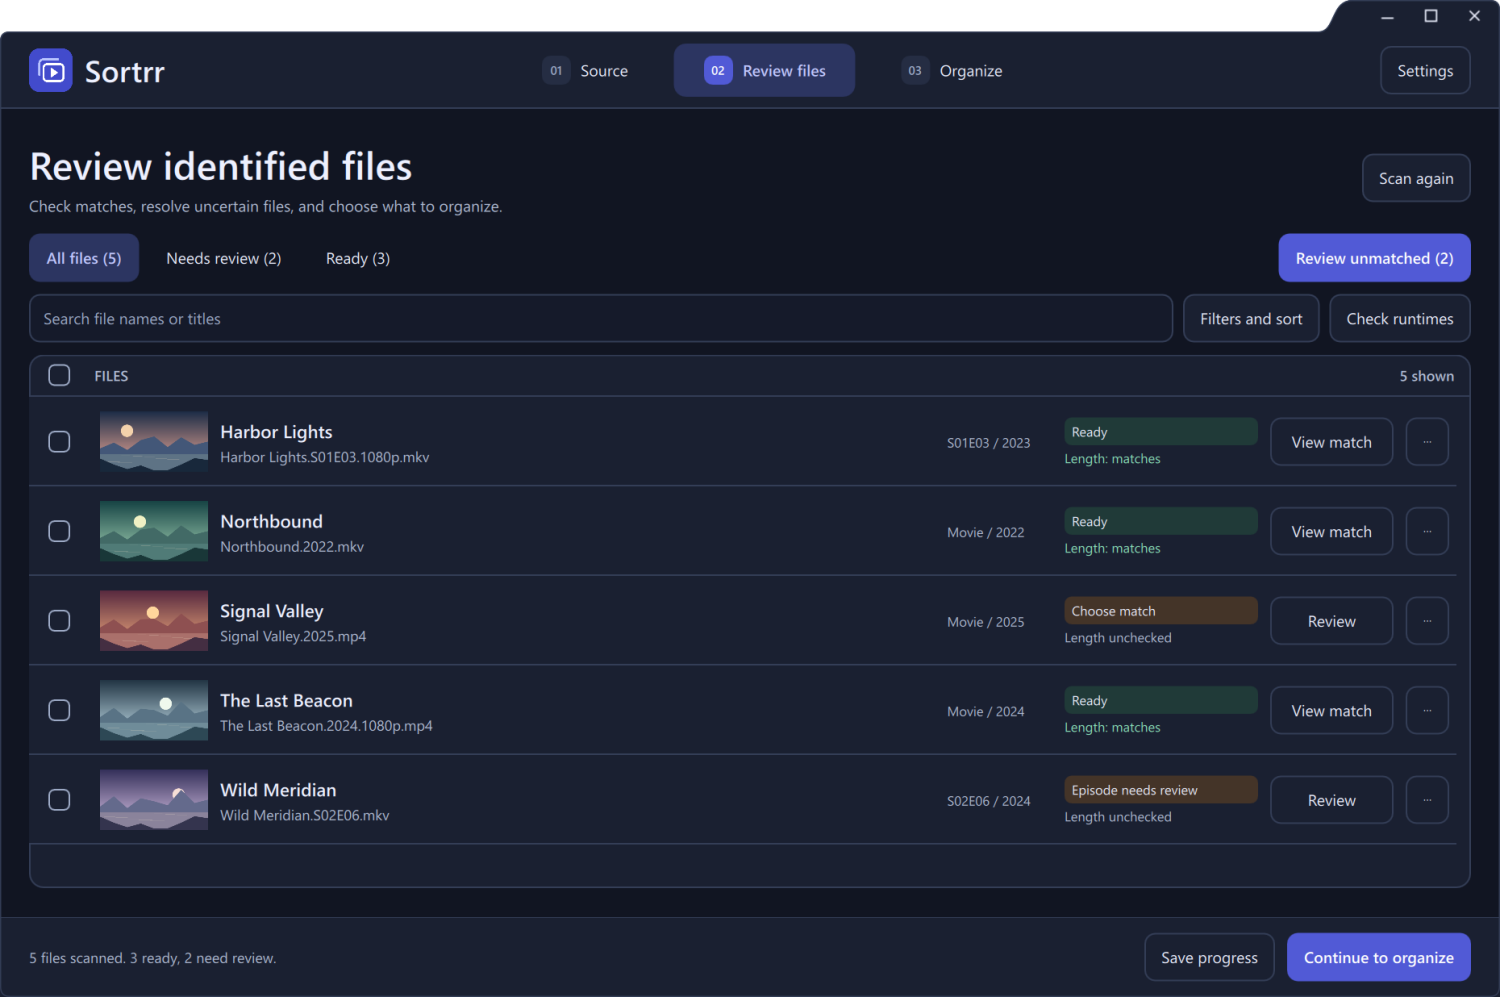
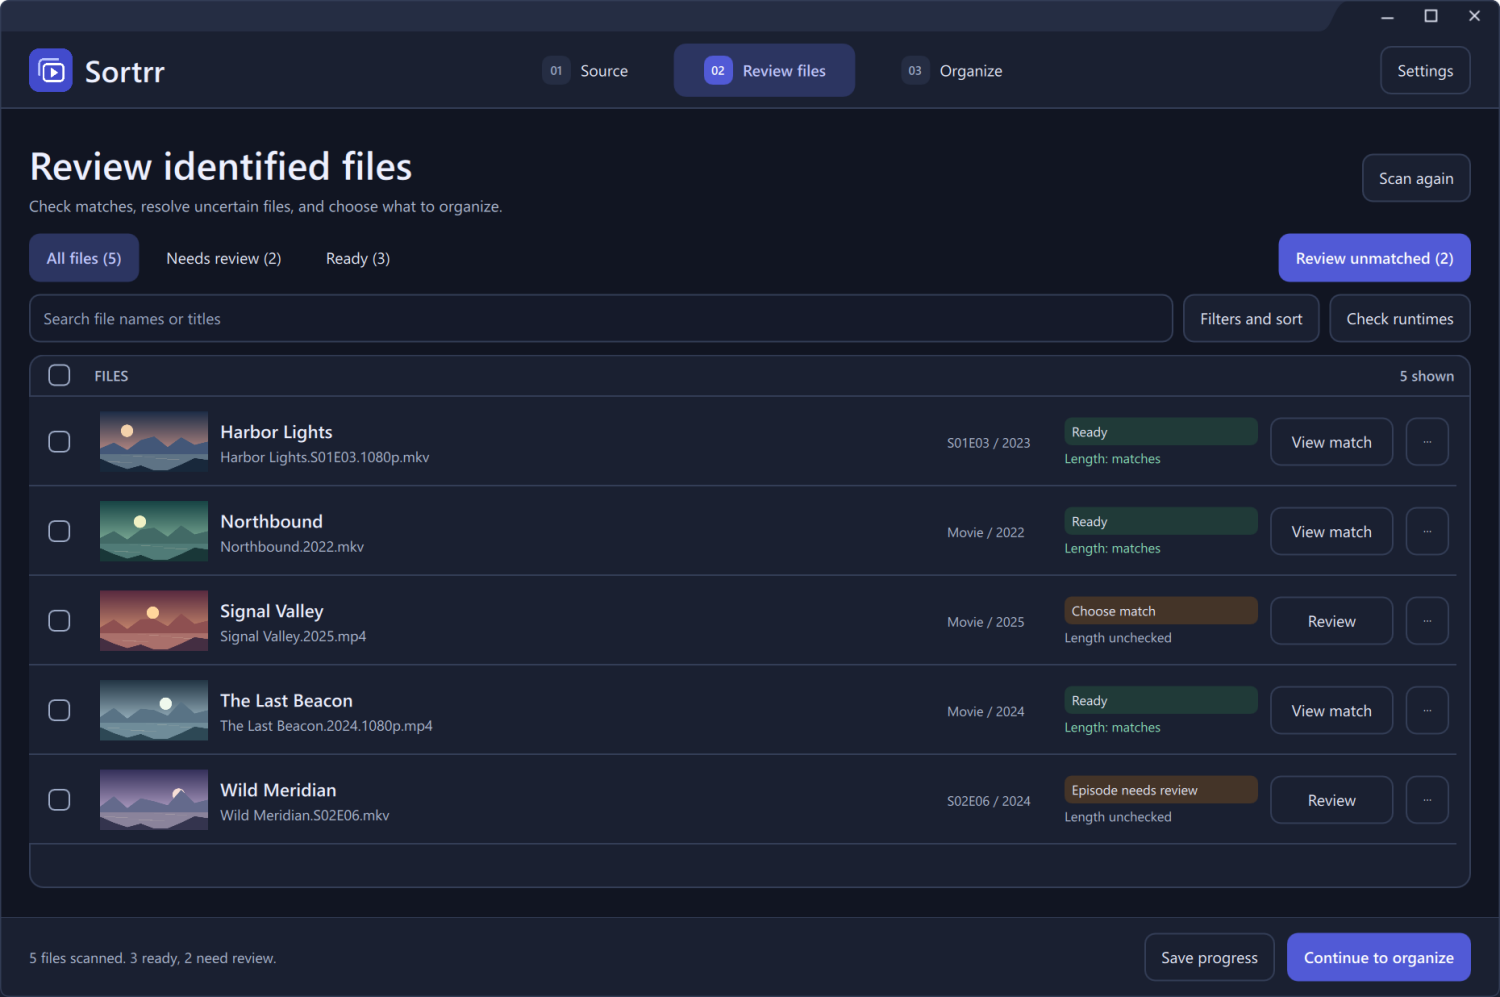
Add a browser-style title strip for window dragging

Changed region(s): [[0.0, 0.0, 0.8893, 0.0311]]

diff --git a/ui/WindowFrame.qml b/ui/WindowFrame.qml
@@ -17,8 +17,6 @@ Item {
     property real tabHeight: 26
     WindowShape {
         targetWindow: frame.targetWindow
-        tabWidth: frame.tabWidth
-        tabHeight: frame.tabHeight
     }
     Canvas {
         id: outline
@@ -28,21 +26,18 @@ Item {
         onHeightChanged: requestPaint()
         onPaint: {
             let ctx = getContext("2d")
-            let w = width - .5, h = height - .5, t = frame.tabHeight + .5
-            let x = width - frame.tabWidth
+            let w = width - .5, h = height - .5, r = 8
             ctx.clearRect(0, 0, width, height)
             ctx.beginPath()
-            ctx.moveTo(8, t)
-            ctx.lineTo(x - 18, t)
-            ctx.bezierCurveTo(x - 4, t, x - 8, .5, x + 10, .5)
-            ctx.lineTo(w - 8, .5)
-            ctx.quadraticCurveTo(w, .5, w, 8)
-            ctx.lineTo(w, h - 8)
-            ctx.quadraticCurveTo(w, h, w - 8, h)
-            ctx.lineTo(8, h)
-            ctx.quadraticCurveTo(.5, h, .5, h - 8)
-            ctx.lineTo(.5, t + 8)
-            ctx.quadraticCurveTo(.5, t, 8, t)
+            ctx.moveTo(r, .5)
+            ctx.lineTo(w - r, .5)
+            ctx.quadraticCurveTo(w, .5, w, r)
+            ctx.lineTo(w, h - r)
+            ctx.quadraticCurveTo(w, h, w - r, h)
+            ctx.lineTo(r, h)
+            ctx.quadraticCurveTo(.5, h, .5, h - r)
+            ctx.lineTo(.5, r)
+            ctx.quadraticCurveTo(.5, .5, r, .5)
             ctx.closePath()
             ctx.strokeStyle = Theme.line
             ctx.lineWidth = 1
@@ -54,13 +49,6 @@ Item {
         }
     }
     onTabWidthChanged: outline.requestPaint()
-    MouseArea {
-        x: frame.width - frame.tabWidth + 10
-        y: 0; width: frame.tabWidth - 20; height: frame.edgeWidth
-        enabled: frame.resizable
-        cursorShape: Qt.SizeVerCursor
-        onPressed: frame.targetWindow.startSystemResize(Qt.TopEdge)
-    }
     Repeater {
         model: [
             { edges: Qt.LeftEdge, cursor: Qt.SizeHorCursor },
@@ -78,15 +66,12 @@ Item {
             readonly property bool rightEdge: !!(modelData.edges & Qt.RightEdge)
             readonly property bool topEdge: !!(modelData.edges & Qt.TopEdge)
             readonly property bool bottomEdge: !!(modelData.edges & Qt.BottomEdge)
-            width: modelData.edges === Qt.TopEdge ? frame.width - frame.tabWidth - 24
-                : leftEdge || rightEdge ? (topEdge || bottomEdge ? frame.cornerWidth : frame.edgeWidth)
+            width: leftEdge || rightEdge ? (topEdge || bottomEdge ? frame.cornerWidth : frame.edgeWidth)
                 : frame.width - 2 * frame.cornerWidth
             height: topEdge || bottomEdge ? (leftEdge || rightEdge ? frame.cornerWidth : frame.edgeWidth)
-                : frame.height - 2 * frame.cornerWidth - (leftEdge ? frame.tabHeight : 0)
+                : frame.height - 2 * frame.cornerWidth
             x: leftEdge ? 0 : rightEdge ? frame.width - width : frame.cornerWidth
-            y: topEdge ? (rightEdge ? 0 : frame.tabHeight)
-                : bottomEdge ? frame.height - height
-                : frame.cornerWidth + (leftEdge ? frame.tabHeight : 0)
+            y: topEdge ? 0 : bottomEdge ? frame.height - height : frame.cornerWidth
             enabled: frame.resizable
             acceptedButtons: Qt.LeftButton
             cursorShape: modelData.cursor

diff --git a/ui/TitleBar.qml b/ui/TitleBar.qml
@@ -15,6 +15,20 @@ Item {
     readonly property int tabWidth: windowButtons.width + 26
     implicitHeight: 90
 
+    // A continuous, quiet backdrop makes the caption tab feel anchored
+    // and provides a generous drag target without repeating the app name.
+    Rectangle {
+        anchors.fill: parent
+        color: Theme.raised
+        radius: 8
+    }
+    Rectangle {
+        anchors.left: parent.left; anchors.right: parent.right
+        anchors.top: parent.top; anchors.topMargin: bar.tabHeight
+        anchors.bottom: parent.bottom
+        color: Theme.surface
+    }
+
     onTabWidthChanged: headerSurface.requestPaint()
     Canvas {
         id: headerSurface

diff --git a/window_chrome.py b/window_chrome.py
@@ -1,4 +1,4 @@
-"""Native hit-test region for Sortrr's folder-shaped windows."""
+"""Native hit-test region for Sortrr's rounded windows with a browser-style drag strip."""
 from PySide6.QtCore import QObject, Property, Signal
 from PySide6.QtGui import QPainterPath, QPainterPathStroker, QRegion
 from PySide6.QtQml import QmlElement
@@ -7,24 +7,12 @@ QML_IMPORT_NAME = "Sortrr.Native"
 QML_IMPORT_MAJOR_VERSION = 1
 
 
-def folder_path(width, height, tab_width, tab_height):
-    """Shared contour in logical pixels, including the raised caption tab."""
-    w, h, t = float(width), float(height), float(tab_height)
-    x = w - float(tab_width)
-    p = QPainterPath()
-    p.moveTo(8, t)
-    p.lineTo(x - 18, t)
-    p.cubicTo(x - 4, t, x - 8, 0, x + 10, 0)
-    p.lineTo(w - 8, 0)
-    p.quadTo(w, 0, w, 8)
-    p.lineTo(w, h - 8)
-    p.quadTo(w, h, w - 8, h)
-    p.lineTo(8, h)
-    p.quadTo(0, h, 0, h - 8)
-    p.lineTo(0, t + 8)
-    p.quadTo(0, t, 8, t)
-    p.closeSubpath()
-    return p
+def window_path(width, height):
+    """Rounded outer frame; the entire top strip accepts window dragging."""
+    from PySide6.QtCore import QRectF
+    path = QPainterPath()
+    path.addRoundedRect(QRectF(0, 0, float(width), float(height)), 8, 8)
+    return path
 
 
 @QmlElement
@@ -34,14 +22,12 @@ class WindowShape(QObject):
     def __init__(self, parent=None):
         super().__init__(parent)
         self._window = None
-        self._tab_width = 132.0
-        self._tab_height = 26.0
 
     def update_mask(self):
         if self._window is not None:
             w, h = self._window.width(), self._window.height()
             if w > 0 and h > 0:
-                path = folder_path(w, h, self._tab_width, self._tab_height)
+                path = window_path(w, h)
                 # A native region has binary edges. Keep it just outside the
                 # painted contour so it cannot clip the antialiased pixels.
                 padding = QPainterPathStroker()
@@ -66,25 +52,3 @@ class WindowShape(QObject):
         self.changed.emit()
 
     targetWindow = Property(QObject, get_window, set_window, notify=changed)
-
-    def get_tab_width(self):
-        return self._tab_width
-
-    def set_tab_width(self, value):
-        if self._tab_width != value:
-            self._tab_width = value
-            self.update_mask()
-            self.changed.emit()
-
-    tabWidth = Property(float, get_tab_width, set_tab_width, notify=changed)
-
-    def get_tab_height(self):
-        return self._tab_height
-
-    def set_tab_height(self, value):
-        if self._tab_height != value:
-            self._tab_height = value
-            self.update_mask()
-            self.changed.emit()
-
-    tabHeight = Property(float, get_tab_height, set_tab_height, notify=changed)

diff --git a/tests/test_window_chrome.py b/tests/test_window_chrome.py
@@ -1,7 +1,7 @@
 import unittest
 from PySide6.QtCore import QObject, QPoint, Signal
 from PySide6.QtGui import QRegion
-from window_chrome import WindowShape, folder_path
+from window_chrome import WindowShape, window_path
 
 
 class WindowStub(QObject):
@@ -24,34 +24,33 @@ class WindowStub(QObject):
 
 
 class WindowChromeTests(unittest.TestCase):
-    def test_cutout_is_not_an_input_surface(self):
-        region = QRegion(folder_path(1000, 700, 182, 40).toFillPolygon().toPolygon())
-        self.assertFalse(region.contains(QPoint(20, 15)))
-        self.assertFalse(region.contains(QPoint(700, 15)))
+    def test_full_title_strip_accepts_input(self):
+        region = QRegion(window_path(1000, 700).toFillPolygon().toPolygon())
+        self.assertTrue(region.contains(QPoint(20, 15)))
+        self.assertTrue(region.contains(QPoint(700, 15)))
         self.assertTrue(region.contains(QPoint(950, 15)))
         self.assertTrue(region.contains(QPoint(20, 60)))
         self.assertTrue(region.contains(QPoint(500, 650)))
 
-    def test_resize_keeps_the_tab_at_the_right_edge(self):
+    def test_resize_extends_the_drag_strip(self):
         window = WindowStub()
         shape = WindowShape()
         shape.targetWindow = window
         self.assertTrue(window.mask.contains(QPoint(950, 15)))
         window.w = 1400
         window.widthChanged.emit()
-        self.assertFalse(window.mask.contains(QPoint(950, 15)))
+        self.assertTrue(window.mask.contains(QPoint(950, 15)))
         self.assertTrue(window.mask.contains(QPoint(1350, 15)))
         window.h = 950
         window.heightChanged.emit()
         self.assertTrue(window.mask.contains(QPoint(500, 900)))
 
-    def test_settings_tab_and_window_replacement(self):
+    def test_window_replacement_disconnects_old_window(self):
         old, current = WindowStub(), WindowStub()
         shape = WindowShape()
         shape.targetWindow = old
         shape.targetWindow = current
-        shape.tabWidth = 86
-        self.assertFalse(current.mask.contains(QPoint(870, 15)))
+        self.assertTrue(current.mask.contains(QPoint(870, 15)))
         self.assertTrue(current.mask.contains(QPoint(970, 15)))
         before = QRegion(current.mask)
         old.w = 1500

diff --git a/packaging/release-notes-rc3.md b/packaging/release-notes-rc3.md
@@ -2,7 +2,7 @@
 
 Sortrr is still in testing. Try a small set of test files or a backed-up library before moving, renaming, or cleaning up media.
 
-- Added a folder-shaped window with a compact, antialiased raised tab for window controls, a transparent cutout, and a full-width app header below.
+- Added a compact browser-style title strip for dragging, with a rounded control tab and the app header below.
 - Added a Check for updates button in Settings and automatic installation of verified updates, with rollback if the new app cannot start.
 - Added cache size reporting and a native folder picker to move the cache. Settings, saved matches, review progress, and change history stay in the app data folder.
 - Included cached previews when clearing the cache.
@@ -17,6 +17,6 @@ Settings and change history are kept in %LOCALAPPDATA%\Sortrr.
 
 ## Validation
 
-149 automated tests passed, including window shape and hit-region checks, plus UI checks for the folder-tab header, Settings, updates, cache relocation, scan progress, and related media. The portable package was also checked for startup and bundled dependencies.
+149 automated tests passed, including window shape and hit-region checks, plus UI checks for the browser-style title strip, Settings, updates, cache relocation, scan progress, and related media. The portable package was also checked for startup and bundled dependencies.
 
 This candidate is prepared locally for review and has not been published.

diff --git a/README.md b/README.md
@@ -12,7 +12,7 @@ Sortrr identifies movies and TV episodes and organizes them for Plex, Jellyfin, 
 - Copy or move files using media server presets. Rename media and carry matching subtitles along.
 - Preserve bonus videos in extras folders and review their movie or show associations.
 - Track scanning with overall progress and per-file queued and identifying indicators.
-- Use light or dark mode with a folder-shaped window and dedicated window controls.
+- Use light or dark mode with a browser-style title strip and dedicated window controls.
 - Check for updates in Settings and install verified updates automatically. See cache size and choose its storage folder.
 - Review source cleanup, handle rejected files, and save your place between sessions.
 - Search change history by file name or path and restore a file to its original name and folder.
